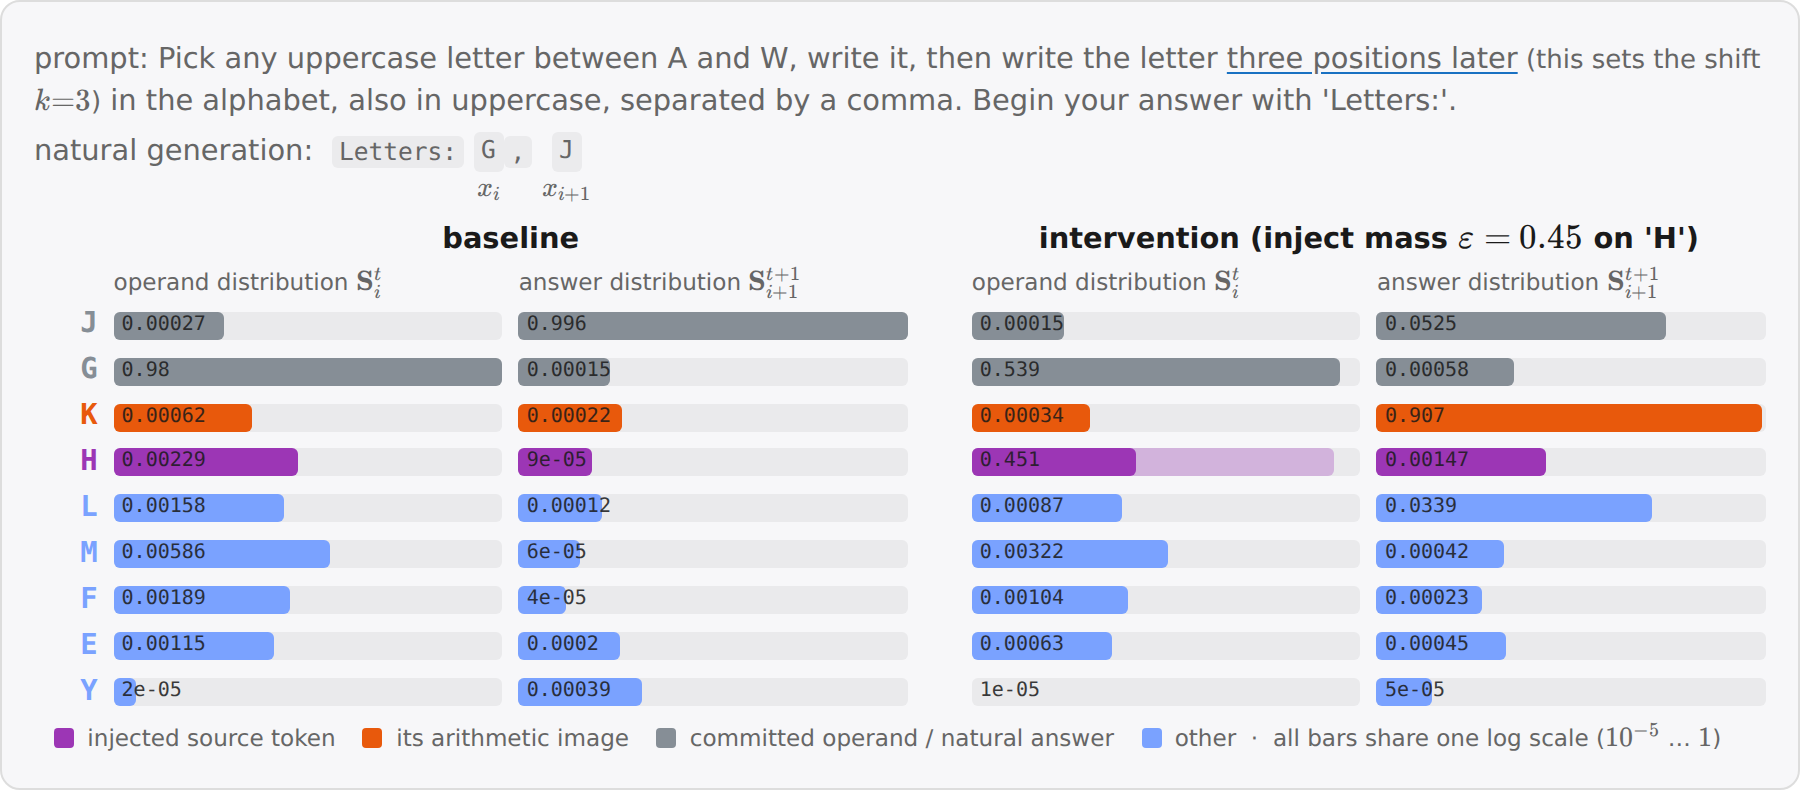
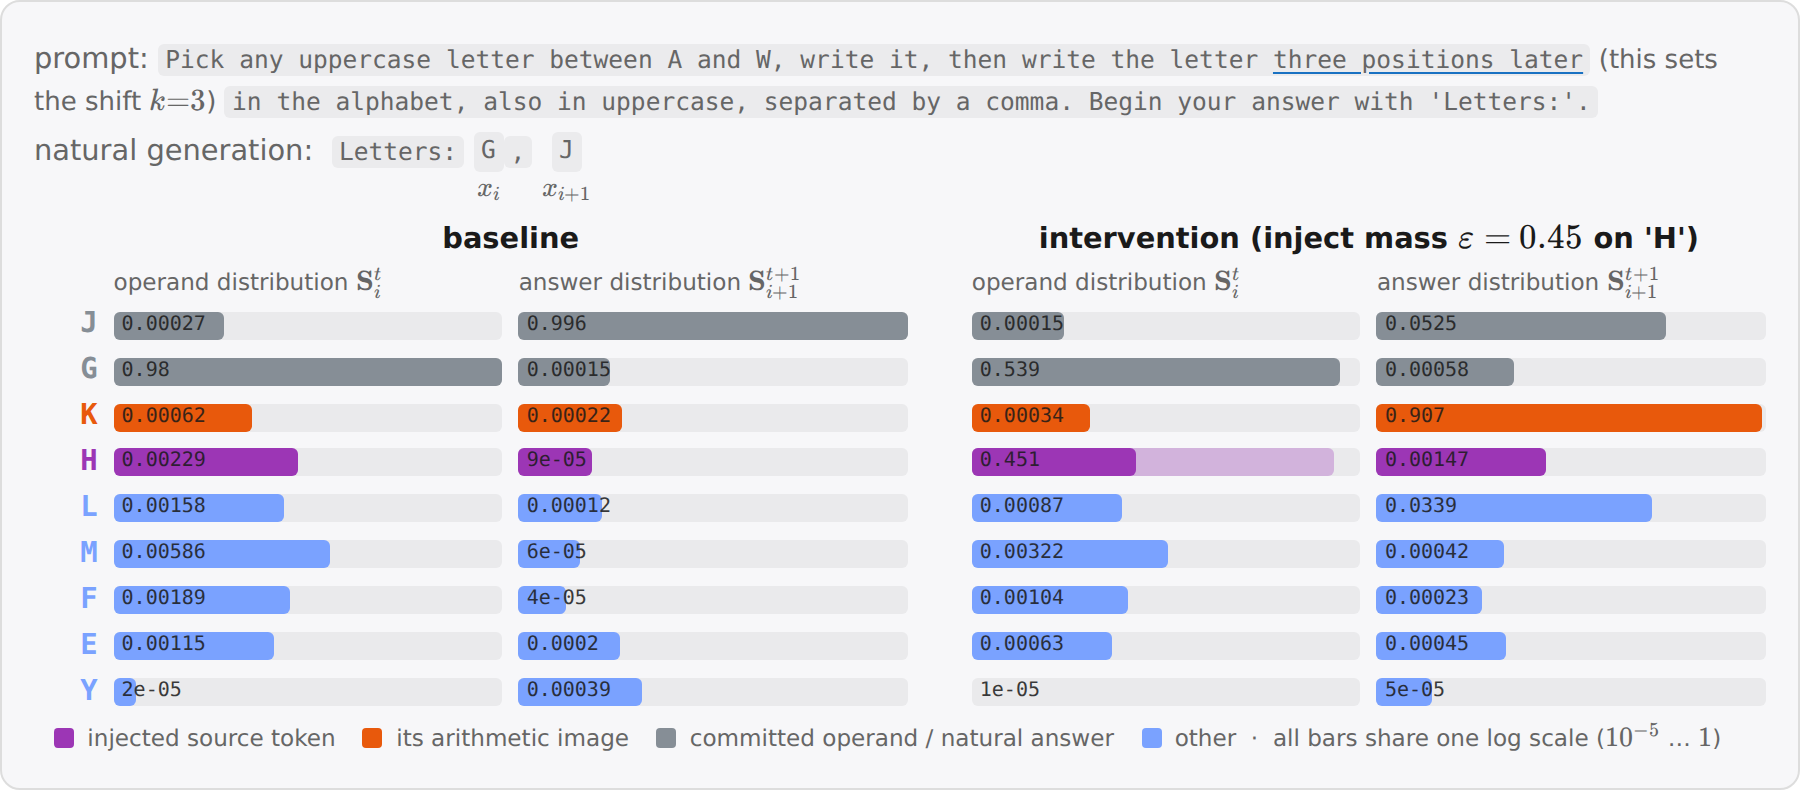
Letters card: prompt in code font (k annotation outside code so KaTeX renders)
Claude-Session: https://claude.ai/code/session_01U8CiyQ7ySpBDkYEq4FzNBU

Changed region(s): [[0.0, 0.0608, 0.9956, 0.1519]]

diff --git a/post.html b/post.html
@@ -41,7 +41,7 @@ p>em:first-child{color:var(--muted)}
 .ghead{margin:6px 0 0}
 .anntok{display:inline-flex;flex-direction:column;align-items:center;vertical-align:top}
 .annlab{font-size:.8em;color:var(--muted);line-height:1.1}
-.kn{color:var(--muted);font-size:.9em}
+.kn{color:var(--muted);font-size:.9em;font-family:system-ui,sans-serif}
 .card u{text-decoration-color:var(--accent);text-underline-offset:2px}
 .brow .btok{font-family:ui-monospace,monospace;text-align:right;font-weight:600}
 .brow .btok.sm{font-weight:400;font-size:.85em;text-align:right}

diff --git a/scripts/build_html.py b/scripts/build_html.py
@@ -100,9 +100,10 @@ def ill_letters_example():
         body.append(f'<div class="brow b4c"><span class="btok" style="color:{col}">{E(tok)}</span>'
                     + bar(ab, col) + bar(bb, col) + "<span></span>" + ap_bar + bar(bp, col) + "</div>")
     kword = {3: "three", 5: "five", 7: "seven", 11: "eleven"}[d["k"]]
-    prompt_html = E(d["prompt"]).replace(
-        f" {kword} positions later",
-        f' <u>{kword} positions later</u><span class="kn"> (this sets the shift $k{{=}}{d["k"]}$)</span>', 1)
+    before, after = E(d["prompt"]).split(f" {kword} positions later", 1)
+    prompt_html = (f'<code class="gen">{before} <u>{kword} positions later</u></code>'
+                   f'<span class="kn"> (this sets the shift $k{{=}}{d["k"]}$) </span>'
+                   f'<code class="gen">{after.lstrip()}</code>')
     ann = lambda tok, lab: (f'<span class="anntok"><code class="gen">{E(tok)}</code>'
                             f'<span class="annlab">{lab}</span></span>')
     gen_html = (f'<code class="gen">Letters:</code> {ann(d["nat"], "$x_i$")}'
@@ -208,7 +209,7 @@ p>em:first-child{color:var(--muted)}
 .ghead{margin:6px 0 0}
 .anntok{display:inline-flex;flex-direction:column;align-items:center;vertical-align:top}
 .annlab{font-size:.8em;color:var(--muted);line-height:1.1}
-.kn{color:var(--muted);font-size:.9em}
+.kn{color:var(--muted);font-size:.9em;font-family:system-ui,sans-serif}
 .card u{text-decoration-color:var(--accent);text-underline-offset:2px}
 .brow .btok{font-family:ui-monospace,monospace;text-align:right;font-weight:600}
 .brow .btok.sm{font-weight:400;font-size:.85em;text-align:right}
